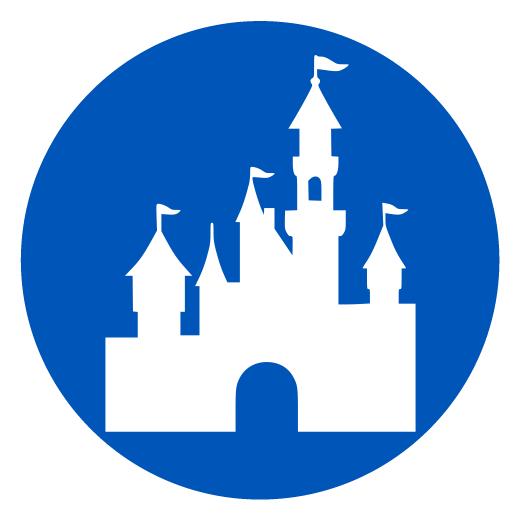
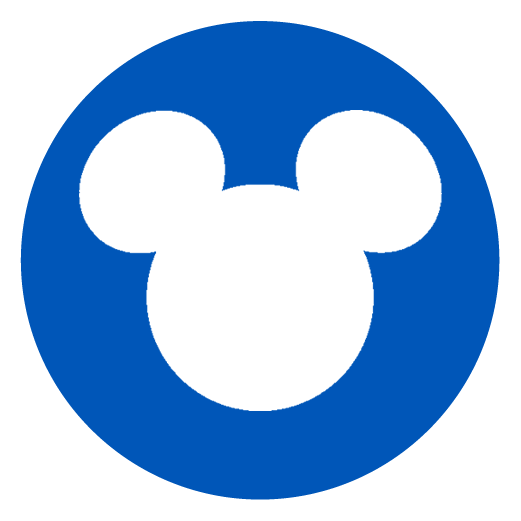
se agrego nuevos iconos de diferentes tipos de parques y demas

Changed region(s): [[0.1536, 0.0921, 0.8599, 0.8292]]

diff --git a/tickets.html b/tickets.html
@@ -88,7 +88,7 @@
       <div class="row">
         <div class="col-md-12">
           <div class="titlepage">
-            <h2 class="text-md-center">TICKETS</h2>
+            <h2 class="text-md-center title-tickets">TICKETS</h2>
             <!--             <span><img src="img/boder.png" alt="img" /> </span> -->
           </div>
         </div>
@@ -108,7 +108,7 @@
         <a class="read-more" href="ticketdisney.html">
           <div class="three-box">
             <figure><img
-                src="https://cf.bstatic.com/xdata/images/hotel/max1024x768/109654977.jpg?k=0f38526abd5ac9b9bd65da4c895cf9132e4f871094e646b3ebb926fab6dcb800&o=&hp=1"
+                src="img/universal.jpeg"
                 alt="img" /></figure>
             <div class="promo"> <i><img src="img/icon_universal.png" alt="img" width="50px" height="50px" /></i>
               <!-- aqui usar logo dependiendo de que es la promo -->
@@ -121,9 +121,9 @@
       <a class="read-more" href="ticketdisney.html">
         <div class="three-box">
           <figure><img
-              src="https://www.egames.news/__export/1686854124794/sites/debate/img/2023/06/15/the-last-of-us-universal-studios-halloween-horror-nights-octubre-2023.jpg_1902800913.jpg"
+              src="https://www.orlandoescape.com/wp-content/uploads/2022/11/SeaWorld-Entrance.jpg"
               alt="img" /></figure>
-          <div class="promo"> <i><img src="img/icon_universal.png" alt="img" width="50px" height="50px" /></i>
+          <div class="promo"> <i><img src="img/logo_web.png" alt="img" width="50px" height="50px" /></i>
             <h3>Otros Tickets</h3>
           </div>
       </a>

diff --git a/style.css b/style.css
@@ -355,6 +355,7 @@ nav {
 }
 
 .about-para p {
+  color: #333;
   font-weight: 300;
   padding: 0.5rem;
   opacity: 0.8;
@@ -414,6 +415,9 @@ nav {
 .Currency .three-box figure img {
   width: 100%;
   max-width: 280px;
+  max-height: 280px;
+  height: 280px;
+  object-fit: cover;
   border-radius: 5px 5px 5px 5px;
   box-shadow: 0 2px 4px 2px rgba(0, 0, 0, 0.1);
 }
@@ -1757,8 +1761,18 @@ select{
     margin-right: 300px;
     padding-left: 0px;
   }
+  .title-tickets{
+    padding-left: 60px;
+  }
 }
 @media (max-width: 480px) {
+  .title-tickets{
+    padding-left: 60px;
+  }
+  .three-box {
+    margin-left: -3.8em;
+    margin-top: 1em;
+  }
   .propaganda{
     width: 360px;
     height: 150px;
